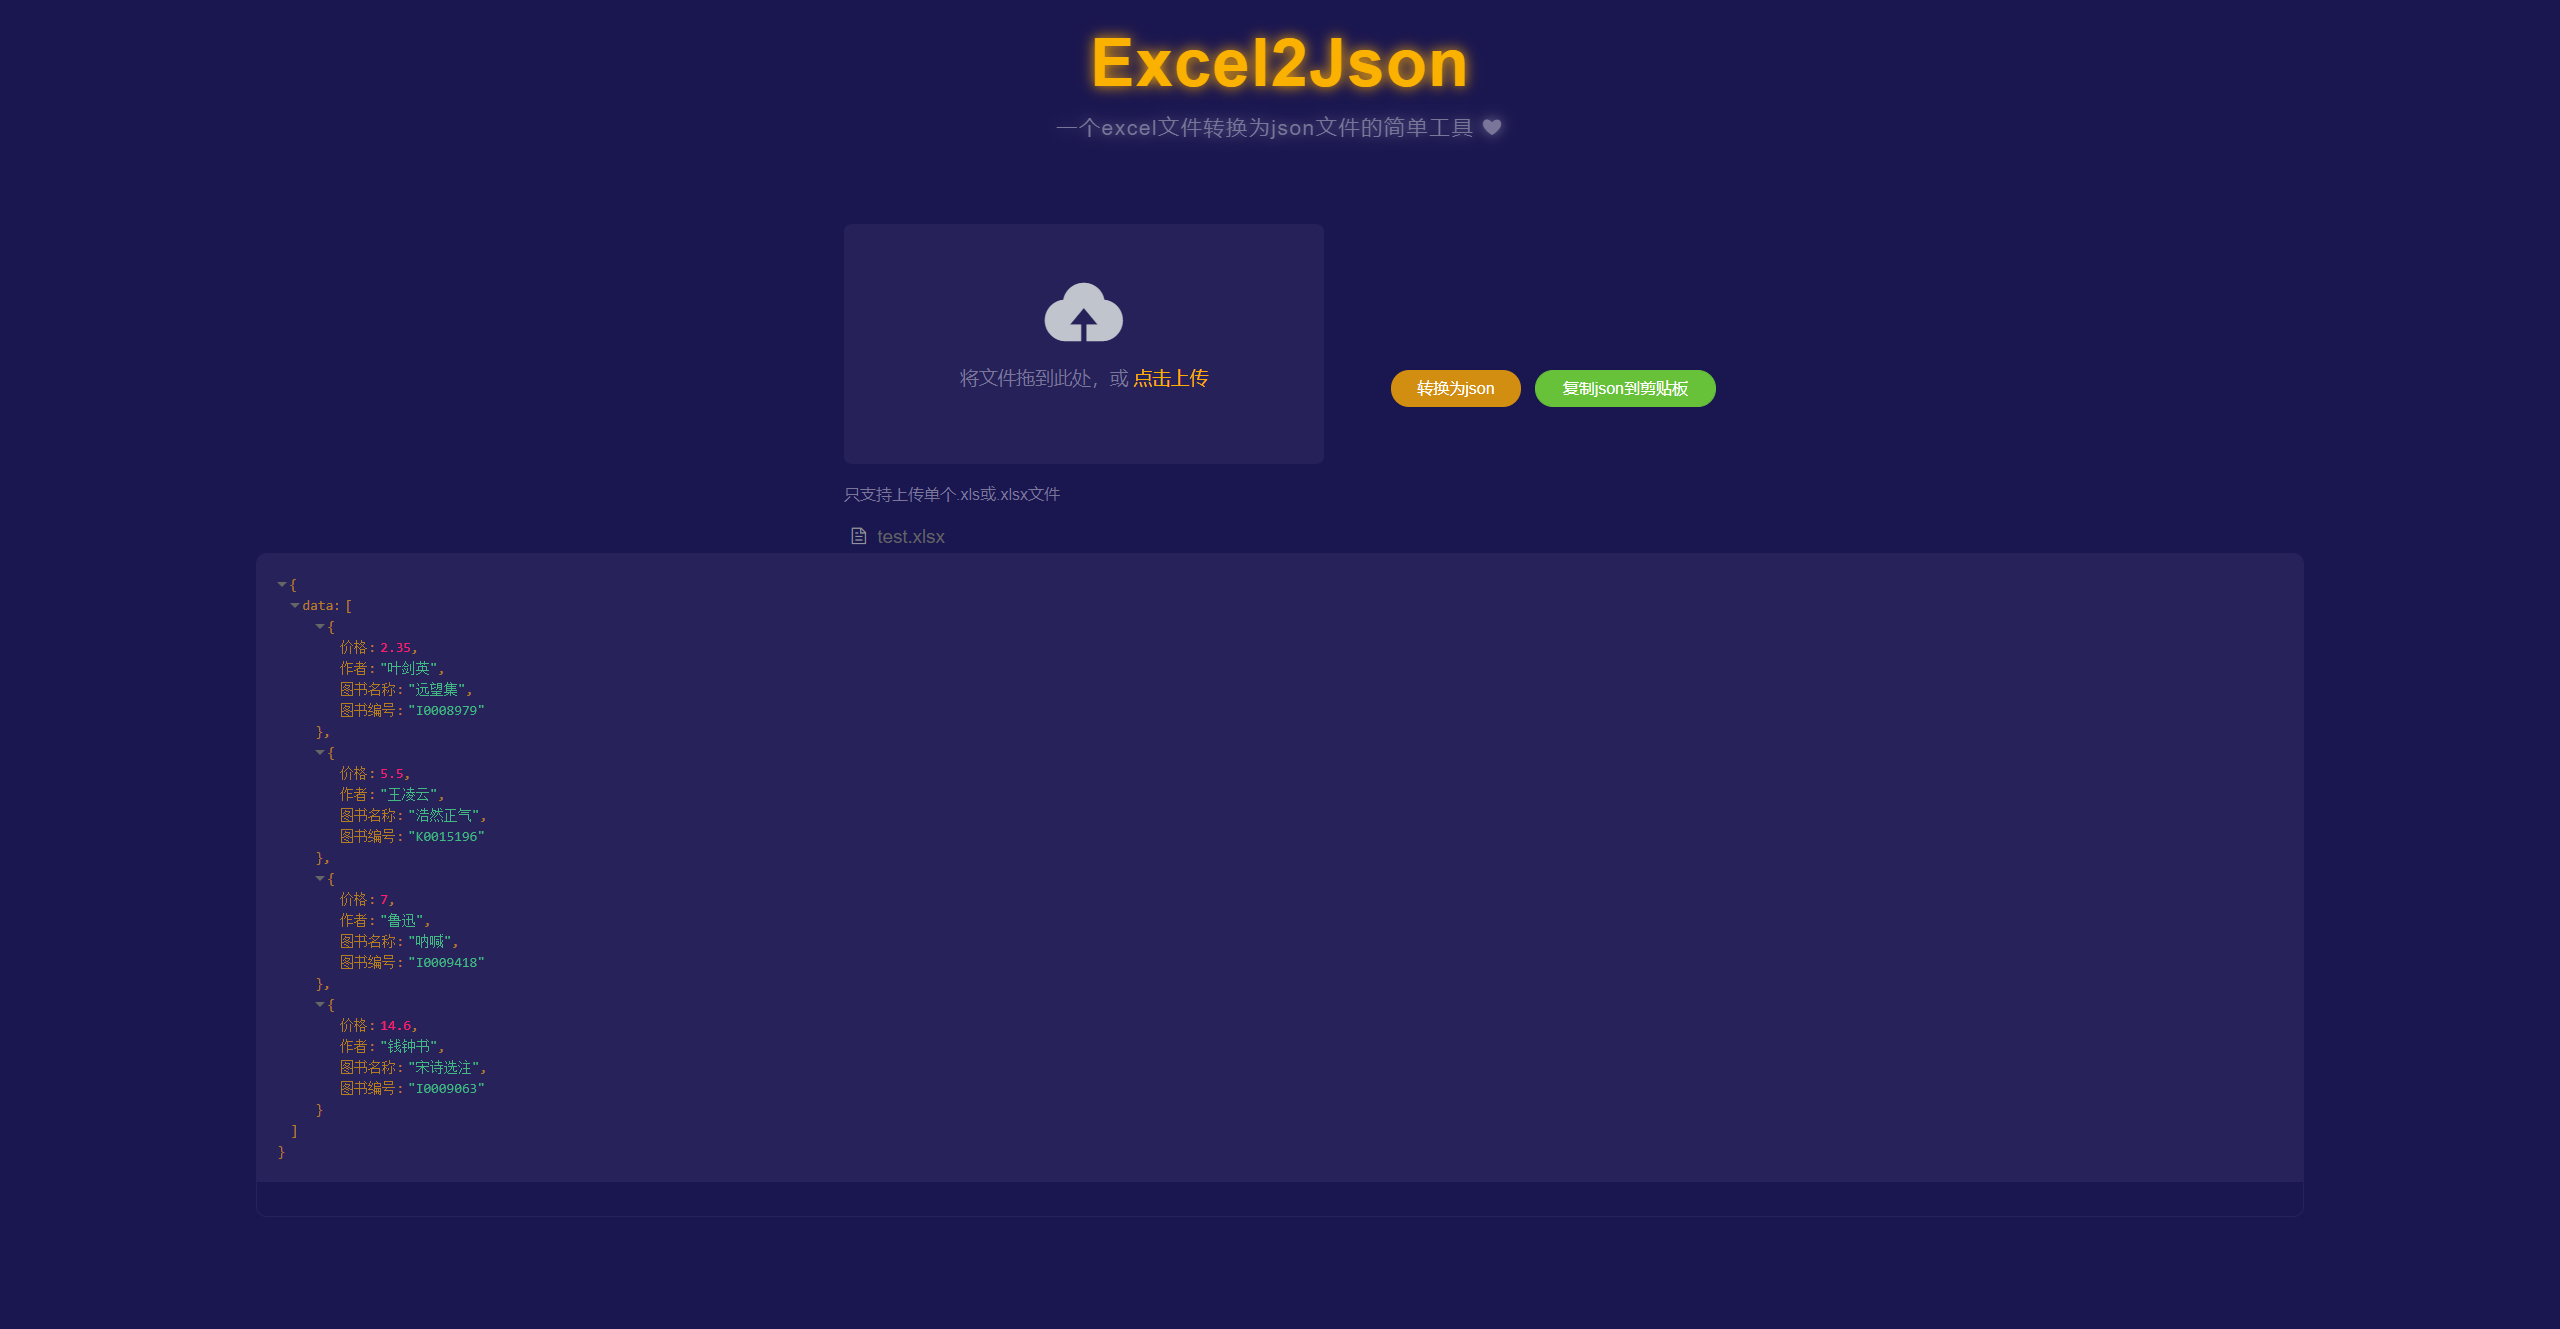
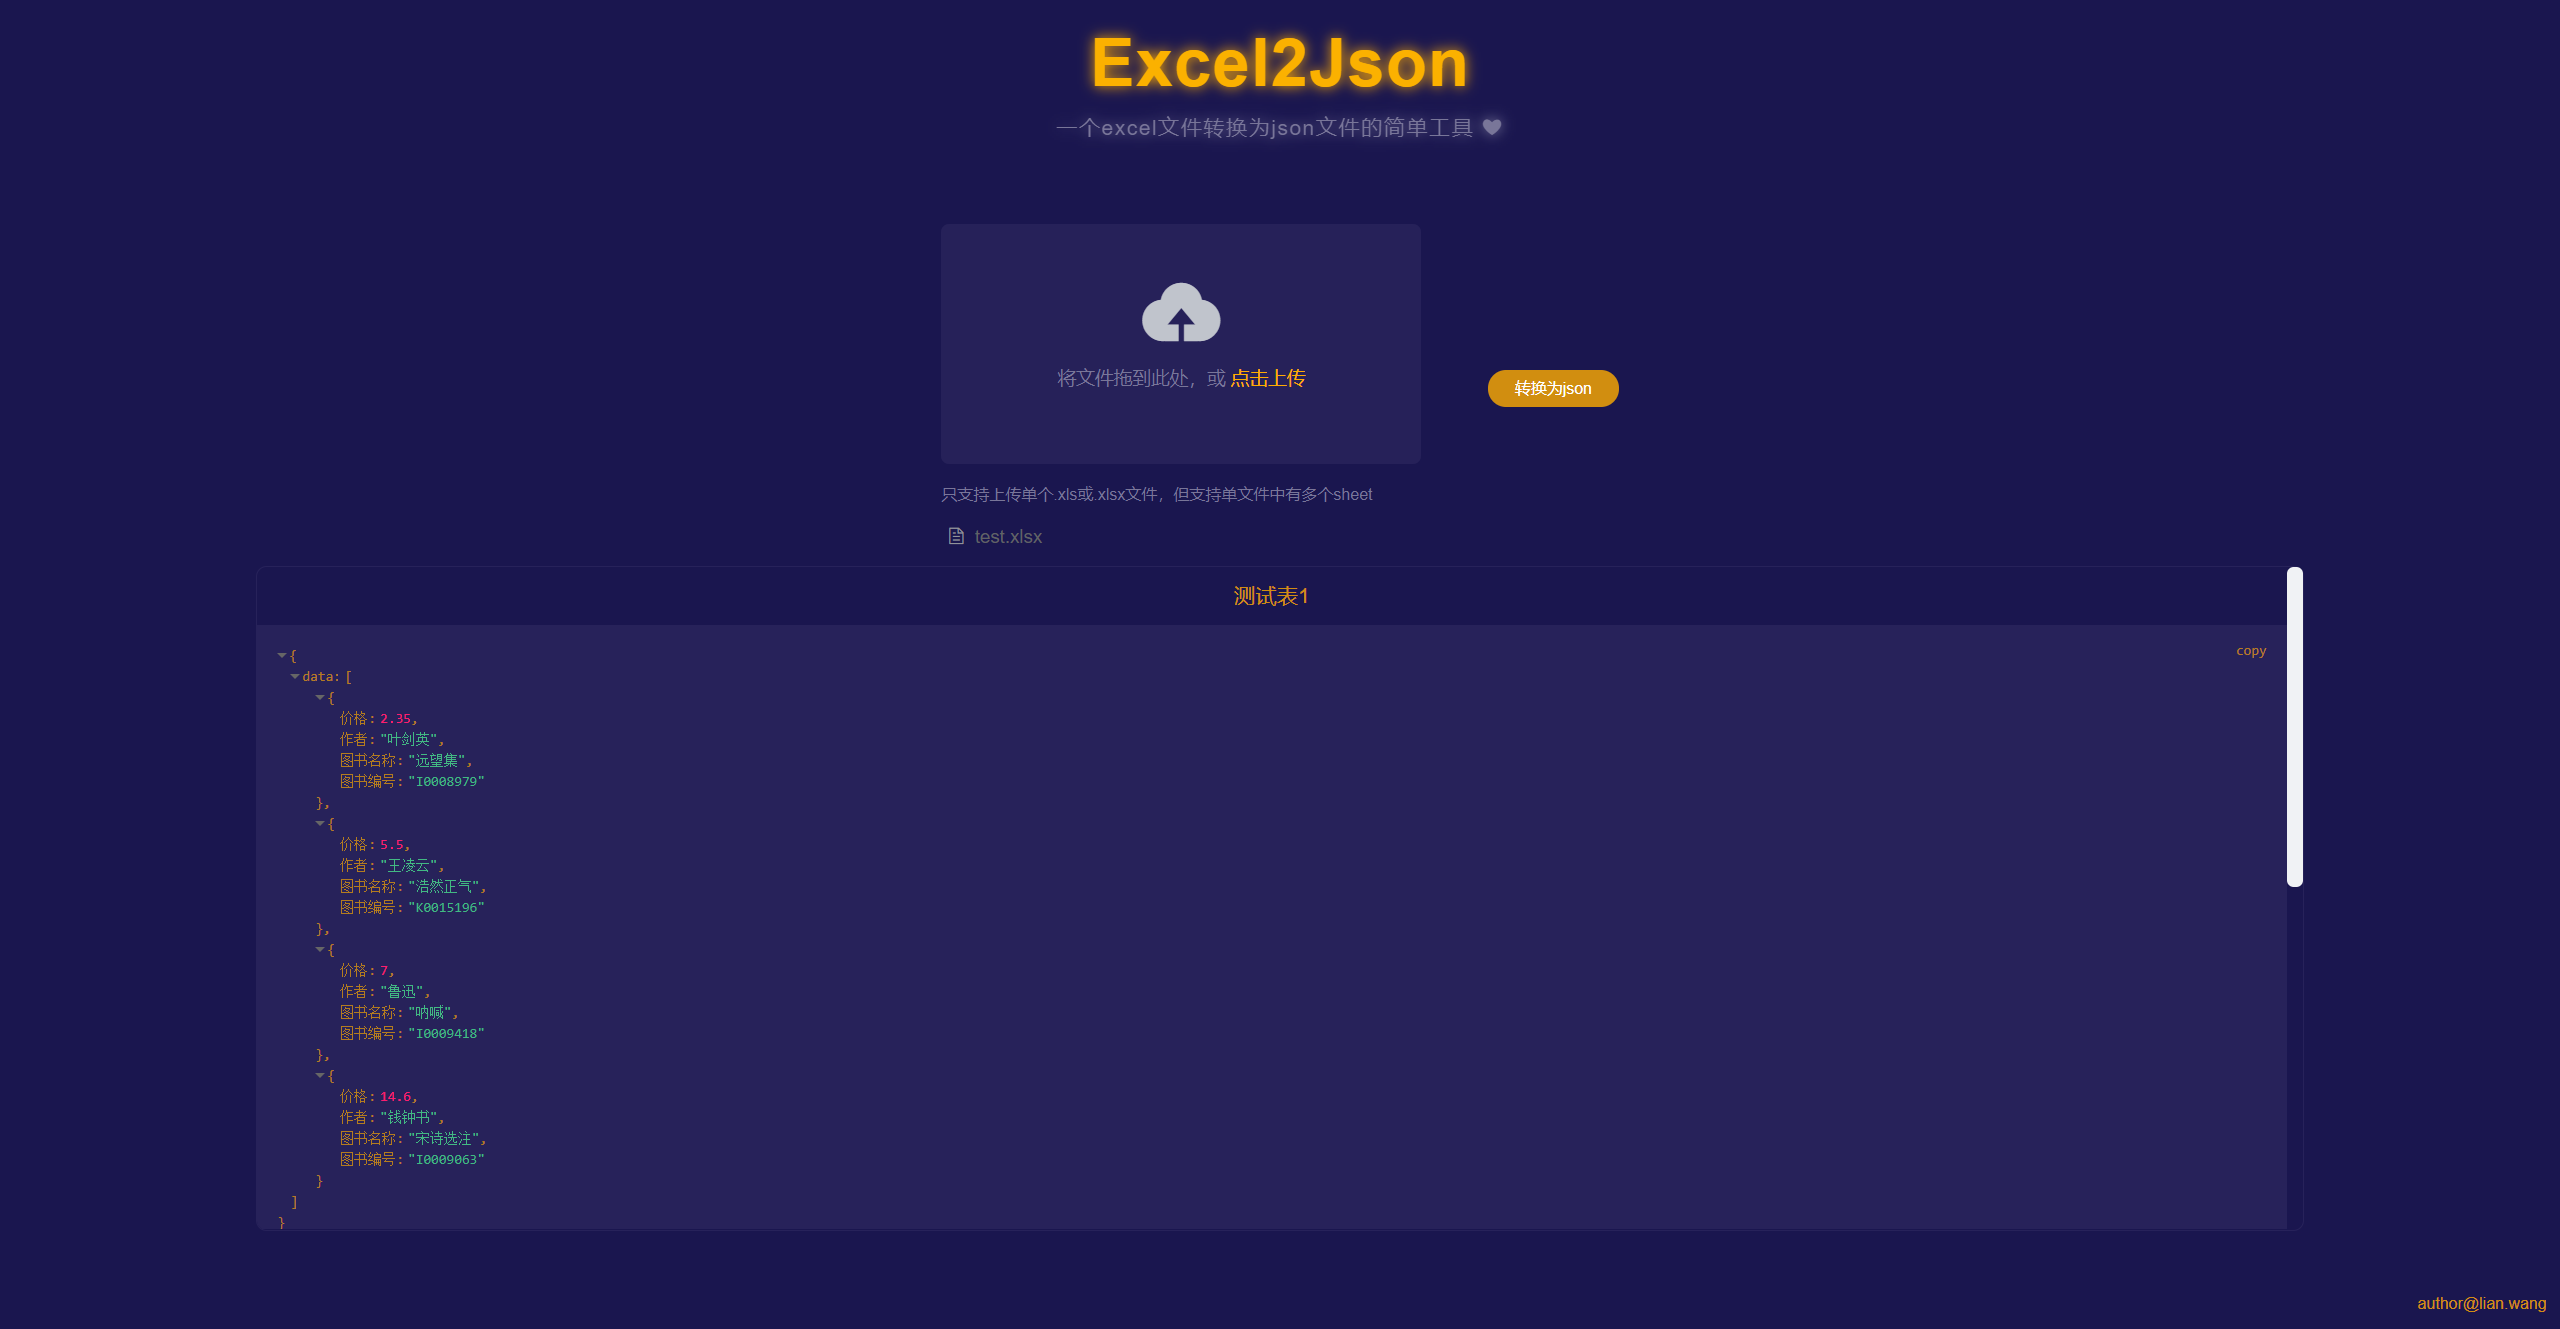
实现多sheet生成功能，提取样式变量

diff --git a/src/views/Home.vue b/src/views/Home.vue
@@ -23,7 +23,7 @@
         <div class="el-upload__text">将文件拖到此处，或<em> 点击上传</em></div>
 
         <div class="el-upload__tip" slot="tip">
-          只支持上传单个.xls或.xlsx文件
+          只支持上传单个.xls或.xlsx文件，但支持单文件中有多个sheet
         </div>
       </el-upload>
       <el-button
@@ -35,14 +35,19 @@
       >
     </div>
     <div class="output-json">
-      <json-viewer
-        class="json-viewer"
-        :value="createJson"
-        :expand-depth="4"
-        sort
-        copyable
-      ></json-viewer>
+      <template v-for="item in resultArr">
+        <h3 :key="item.sheetName">{{ item.sheetName }}</h3>
+        <json-viewer
+          :key="item.sheetName + '_data'"
+          class="json-viewer"
+          :value="item.sheetData"
+          :expand-depth="4"
+          sort
+          copyable
+        ></json-viewer>
+      </template>
     </div>
+    <span class="author">author@lian.wang</span>
   </div>
 </template>
 
@@ -52,16 +57,12 @@ export default {
   data() {
     return {
       fileList: [],
-      selectFile: {},
       // 生成的json数据
-      createJson: {},
-      // 复制的json数据
-      copyJson: "",
+      resultArr: [],
     };
   },
   methods: {
     httpRequest(param) {
-      // this.$confirm("触发了submit");
       let file = param.file; // 文件信息
       // console.log("param: ", param);
       // console.log("file: ", file);
@@ -83,14 +84,19 @@ export default {
           const workbook = XLSX.read(data, {
             type: "binary", // 以字符编码的方式解析
           });
-          console.log(workbook);
+          // console.log(workbook);
           // SheetNames 表名数组  Sheets对象 {表名：表数据}
-          const exlname = workbook.SheetNames[0]; // 取第一张表
-          const exl = XLSX.utils.sheet_to_json(workbook.Sheets[exlname]); // 生成json表格内容
-          // console.log("生成的json", exl);
+          let result = [];
 
-          this.createJson = { data: exl };
-          this.copyJson = JSON.stringify(this.createJson);
+          workbook.SheetNames.forEach((sheetName) => {
+            let exl = XLSX.utils.sheet_to_json(workbook.Sheets[sheetName]);
+            result.push({
+              sheetName: sheetName,
+              sheetData: { data: exl },
+            });
+          });
+
+          this.resultArr = JSON.parse(JSON.stringify(result));
         } catch (e) {
           console.log("转换出错了：：");
           return false;
@@ -107,58 +113,51 @@ export default {
 
 <style lang="scss">
 .main-container {
-  // overflow: scroll;
+  line-height: 1.5;
   height: 100vh;
   width: 100vw;
   margin: auto;
-  background: #1a164f;
+  background: $body-bg;
   .page-name {
-    // border: #fbb100 double 7px;
     padding: 10px;
     text-align: center;
     h1 {
-      color: #fbb100;
+      color: $title-yellow;
       font-size: 50px;
       font-weight: bolder;
-      filter: drop-shadow(0px 0px 5px #ffac00);
+      filter: drop-shadow(0px 0px 5px $title-filter);
       letter-spacing: 1px;
     }
     h2 {
-      color: #797699;
+      color: $main-gray;
       letter-spacing: 1px;
-      filter: drop-shadow(0px 0px 5px #797699);
+      filter: drop-shadow(0px 0px 5px $main-gray);
     }
   }
   .input-excel {
-    // width: 50vw;
     margin-top: 50px;
     .upload-excel {
       .el-upload-dragger {
         background: #262159;
-        border: rgb(255, 172, 0) !important;
+        border: $light-yellow !important;
       }
       .el-upload__text {
         color: #797699;
         em {
-          color: #ffac00;
+          color: $title-filter;
         }
       }
       .el-upload__tip {
-        color: #797699;
+        color: $main-gray;
       }
-      a {
-        // background: rgba(39, 34, 90, 1);
-        &:hover {
-          background: #1a164f;
-        }
+      li {
+        background: $gray-back;
       }
     }
     .change-button {
-      background: rgba(255, 172, 0, 0.8);
-      border: rgba(255, 172, 0, 0.8);
-      // border: solid rebeccapurple 3px;
+      background: $yellow-opc8;
+      border: $yellow-opc8;
       margin-left: 50px !important;
-      // font-weight: bold;
     }
   }
   .output-json {
@@ -166,23 +165,34 @@ export default {
     height: 50vh;
     width: 80vw;
     margin: auto;
-    // padding: 10px;
-    border: rgba(39, 34, 90, 1) solid 1px;
+    margin-top: 10px;
+    border: $gray-back solid 1px;
     border-radius: 8px;
+    h3 {
+      color: $yellow-opc8;
+      text-align: center;
+      padding: 10px 0;
+    }
     .json-viewer {
-      background: rgba(39, 34, 90, 1);
+      background: $gray-back;
       span {
-        color: rgba(255, 172, 0, 0.65);
+        color: $yellow-opc6;
       }
       .jv-object,
       .jv-array {
-        // border: yellow solid 3px;
-        color: rgba(255, 172, 0, 0.65) !important;
+        color: $yellow-opc6 !important;
       }
       .jv-ellipsis {
-        background: rgba(39, 34, 90, 1);
+        background: $gray-back;
       }
     }
+  }
+  .author {
+    position: fixed;
+    right: 10px;
+    bottom: 10px;
+    color: $yellow-opc8;
+    font-size: 12px;
   }
 }
 </style

diff --git a/src/App.vue b/src/App.vue
@@ -25,29 +25,17 @@ export default {
 
 ::-webkit-scrollbar {
   -webkit-appearance: none;
-  width: 12px;
-  height: 12px;
+  width: 5px;
 }
 
 ::-webkit-scrollbar-thumb {
   cursor: pointer;
   border-radius: 5px;
-  background: #f0f2f5;
+  background: $main-gray;
   transition: color 0.2s ease;
 }
 
 ::-webkit-scrollbar-corner {
-  background: #f0f2f5;
-}
-
-body {
-  /*三角箭头的颜色*/
-  scrollbar-arrow-color: rgb(74, 76, 80);
-  /*滚动条滑块按钮的颜色*/
-  scrollbar-face-color: rgb(51, 55, 61);
-  /*滚动条轨道颜色*/
-  scrollbar-track-color: rgb(29, 33, 39);
-  /*滚动条基准颜色*/
-  scrollbar-base-color: #0099dd;
+  background: $main-gray;
 }
 </style>

diff --git a/src/main.js b/src/main.js
@@ -7,7 +7,7 @@ import store from "./store";
 import "@/scss/bootstrap.scss";
 import "@/scss/reset.scss";
 import "@/scss/elementui.scss";
-import "@/scss/index.scss";
+// import "@/scss/index.scss";
 import "@/util/rem";
 import 'default-passive-events';
 
@@ -22,8 +22,8 @@ import JsonViewer from 'vue-json-viewer'
 Vue.use(JsonViewer)
 
 // 复制内容到剪贴板
-import VueClipboard from 'vue-clipboard2'
-Vue.use(VueClipboard)
+// import VueClipboard from 'vue-clipboard2'
+// Vue.use(VueClipboard)
 
 // 阻止 vue 在启动时生成生产提示
 Vue.config.productionTip = false;

diff --git a/src/scss/_variable.scss b/src/scss/_variable.scss
@@ -1,5 +1,22 @@
 // 样式变量
 
 // 主背景
-$body-bg: white;
+$body-bg: #1a164f;
+$main-gray:#797699;
 
+// 标题黄色
+$title-yellow: #fbb100;
+$title-filter: #ffac00;
+
+
+// 亮黄字
+$light-yellow:rgb(255, 172, 0);
+
+//带0.8透明度
+$yellow-opc8:rgba(255, 172, 0, 0.8);
+
+//带0.65透明度
+$yellow-opc6: rgba(255, 172, 0, 0.65);
+
+// 半灰色背景
+$gray-back:rgba(39, 34, 90, 1)

diff --git a/src/scss/elementui.scss b/src/scss/elementui.scss
@@ -50,7 +50,6 @@
   height: 30px;
 }
 
-
 // 输入框样式
 .el-input{
   input{

diff --git a/README.md b/README.md
@@ -32,6 +32,3 @@ npm run test
 npm run lint
 ```
 
-### Customize configuration
-See [Configuration Reference](https://cli.vuejs.org/config/).
-
